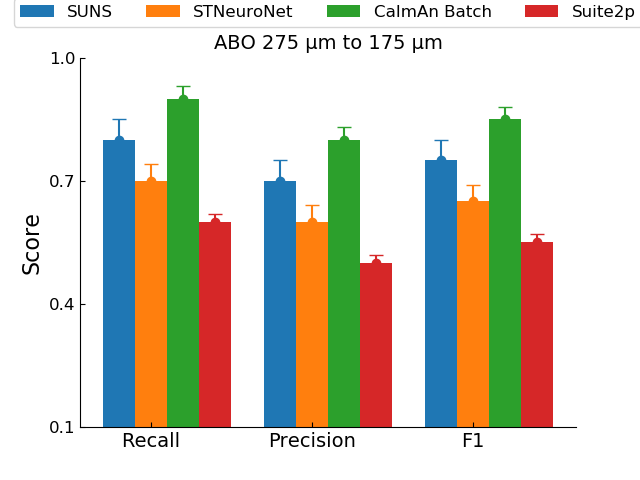
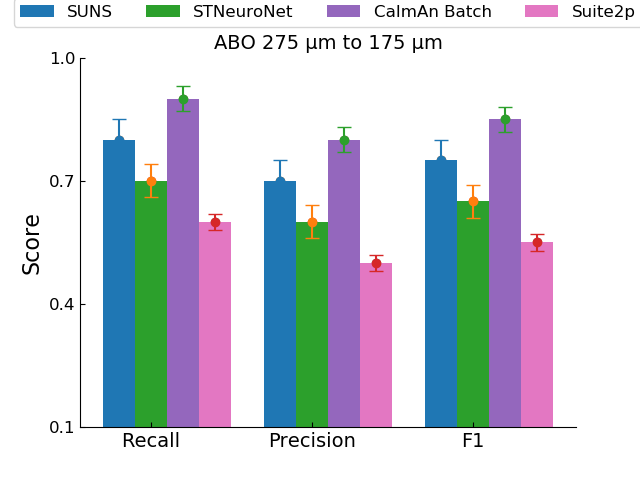
update part 2 fig plot for abo 275 to 175

diff --git a/data_zq/output masks all methods_copied/ABO/175/2_cal_F1_step2.py b/data_zq/output masks all methods_copied/ABO/175/2_cal_F1_step2.py
@@ -8,9 +8,37 @@
 # legend: method name
 # x: Recall Precision F1
 # data: calculated mean value and std, for R, P, F1
-
+import os
 import numpy as np
 import matplotlib.pyplot as plt
+from scipy.io import loadmat
+
+x_labels = ['Recall', 'Precision', 'F1']
+y_labels = ['SUNS', 'STNeuroNet', 'CaImAn Batch', 'Suite2p']
+file_names = ['SUNS noSF output_masks', 'STNeuroNet FinalMasks', 'CaImAn Batch Masks', 'Suite2p Masks']
+
+Recall_tmp = []
+Precision_tmp = []
+F1_tmp = []
+
+for i in range(len(file_names)):
+    res_file = os.path.join(".", file_names[i], "Output_Info_All_cal.mat")
+    mat = loadmat(res_file)
+    list_Recall = np.array(mat["list_Recall"])
+    list_Precision = np.array(mat["list_Precision"])
+    list_F1 = np.array(mat["list_F1"])
+    list_time = np.array(mat["list_time"])
+    list_time_frame = np.array(mat["list_time_frame"])
+    Recall_tmp.append(np.squeeze(list_Recall))
+    Precision_tmp.append(np.squeeze(list_Precision))
+    F1_tmp.append(np.squeeze(list_F1))
+
+# [4, 10] ndarray, 4 methods, 10 data points
+Recall = np.array(Recall_tmp)
+Precision = np.array(Precision_tmp)
+F1 = np.array(F1_tmp)
+
+
 
 # 假设我们有以下四组数据
 recall = [0.8, 0.7, 0.9, 0.6]
@@ -18,24 +46,21 @@ precision = [0.7, 0.6, 0.8, 0.5]
 f1 = [0.75, 0.65, 0.85, 0.55]
 mean_std = [(0.75, 0.05), (0.65, 0.04), (0.85, 0.03), (0.55, 0.02)]
 
-# 设置横坐标标签
-x_labels = ['Recall', 'Precision', 'F1']
 x = np.arange(len(x_labels))
 
 # 设置纵坐标范围
 y_min = min([min(m - s, m + s) for m, s in mean_std])
 y_max = max([max(m - s, m + s) for m, s in mean_std])
 y_range = y_max - y_min
-y_labels = ['SUNS', 'STNeuroNet', 'CaImAn Batch', 'Suite2p']
 
 # 绘制柱状图
 fig, ax = plt.subplots()
-width = 0.2
+width = 0.18
 for i in range(len(recall)):
-    ax.bar(x - width + i * width, [recall[i], precision[i], f1[i]], width, label=y_labels[i])
+    ax.bar(x - width + i * width, [recall[i], precision[i], f1[i]], width, align='center', label=y_labels[i])
     ax.errorbar(x - width + i * width, [recall[i], precision[i], f1[i]],
-                yerr=[mean_std[i][1], mean_std[i][1], mean_std[i][1]], fmt='o', capsize=5)
-
+                yerr=[mean_std[i][1], mean_std[i][1], mean_std[i][1]], fmt=',', capsize=5, color='black')
+    # ax.scatter(x - width + i * width, )
 # 设置横坐标标签和刻度
 fontsize = 14
 ax.set_xticks(x)
@@ -55,6 +80,5 @@ ax.tick_params(direction='in')
 ax.set_title('ABO 275 μm to 175 μm', fontsize=fontsize)
 
 # 保存或显示图形
-plt.savefig("2_cal_F1_step2.png")
+# plt.savefig("2_cal_F1_step2.png")
 plt.show()
-
